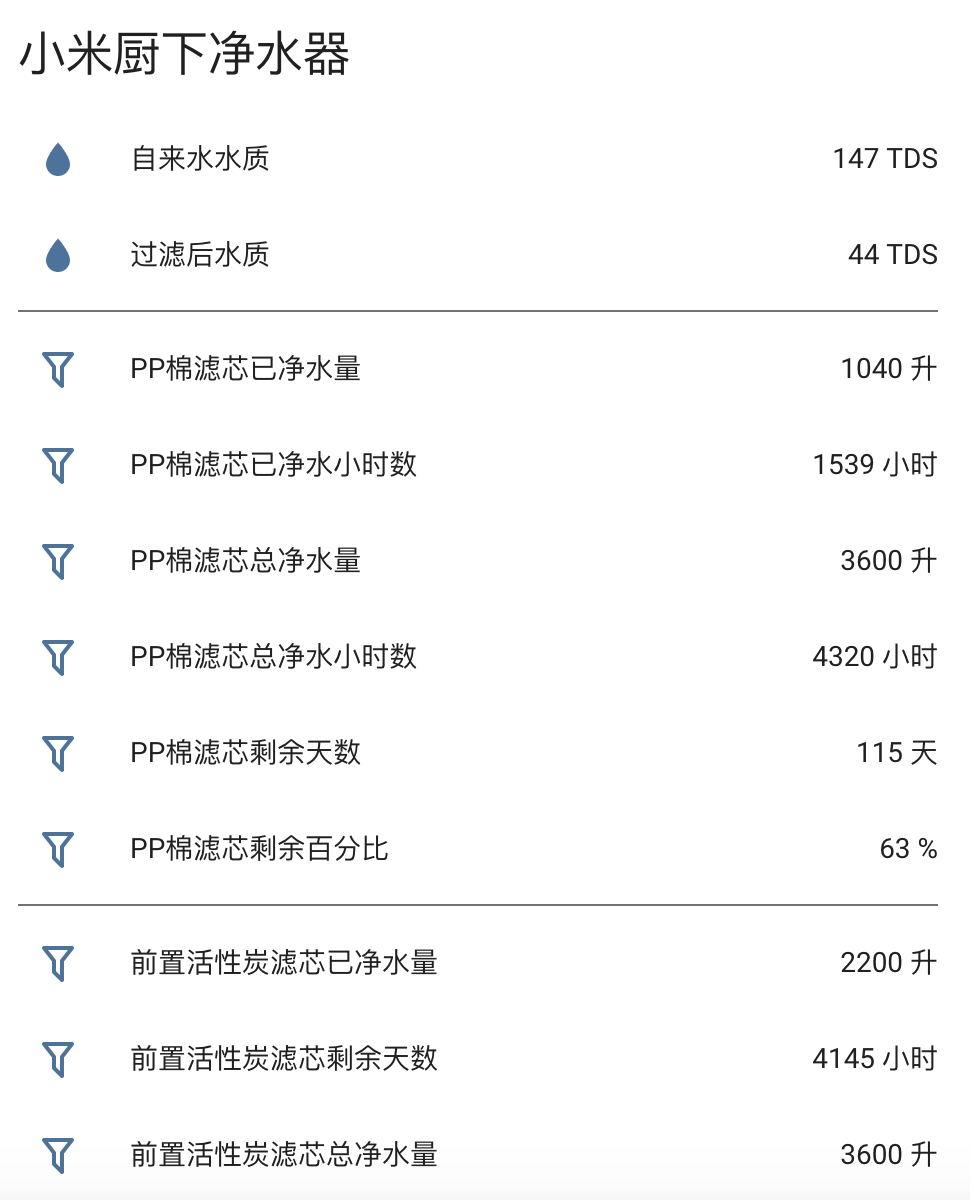
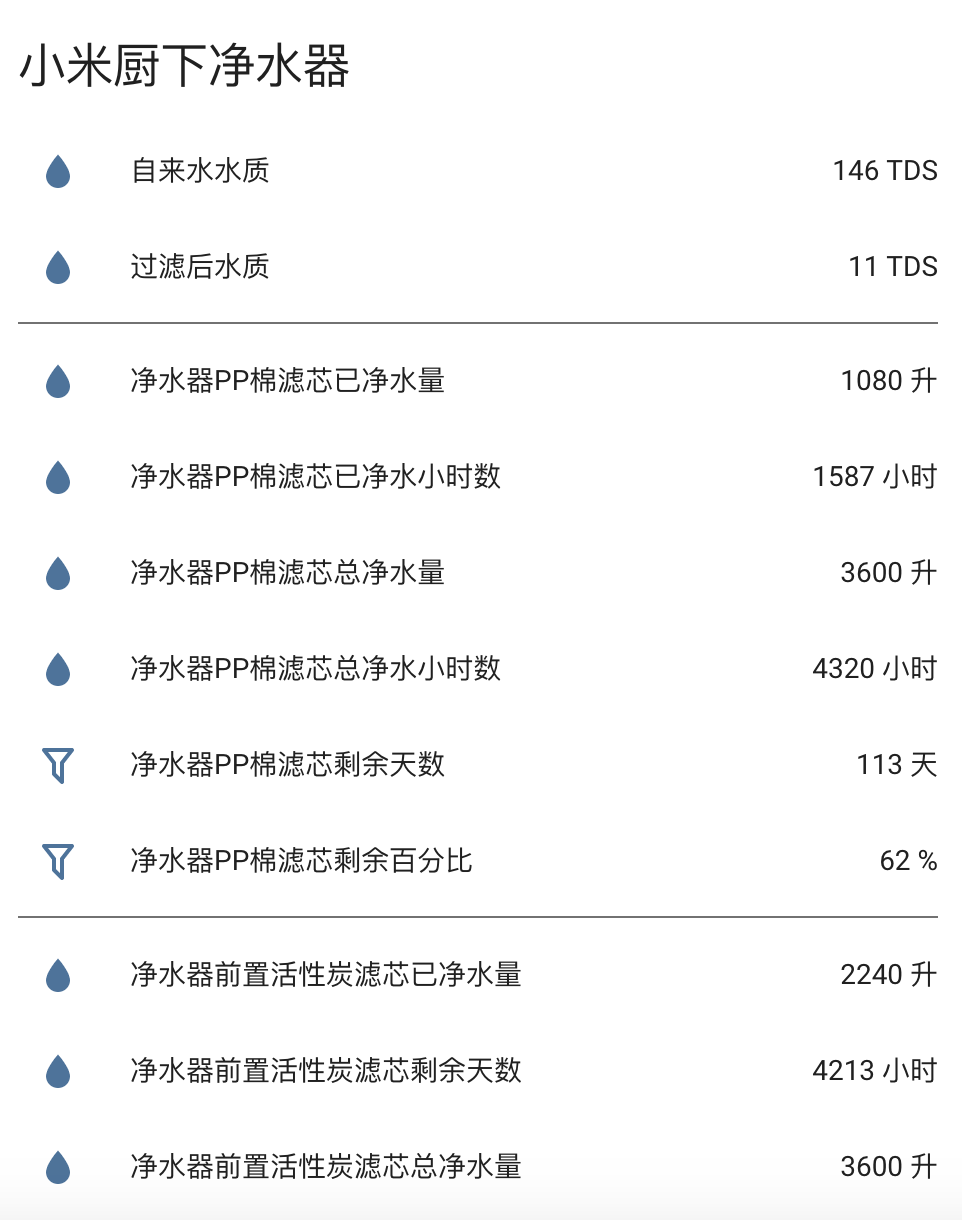
调整目录，增加个性化配置

diff --git a/mi_kitchen_water_purifier/custom_components/mi_kitchen_water_purifier/sensor.py b/mi_kitchen_water_purifier/custom_components/mi_kitchen_water_purifier/sensor.py
@@ -128,11 +128,17 @@ class MiKitchenWaterPurifierSensor(Entity):
     @property
     def icon(self):
         """返回传感器对应图标"""
-        if self._data_key['key'] is TAP_WATER_QUALITY['key'] or \
-            self._data_key['key'] is FILTERED_WATER_QUALITY['key']:
-            return 'mdi:water'
-        else:
+        if self._data_key['key'] is PP_COTTON_FILTER_REMAINING_DAYS['key'] or \
+            self._data_key['key'] is FRONT_ACTIVE_CARBON_FILTER_REMAINING_DAYS['key'] or \
+            self._data_key['key'] is RO_FILTER_REMAINING_DAYS['key'] or \
+            self._data_key['key'] is REAR_ACTIVE_CARBON_FILTER_REMAINING_DAYS['key'] or \
+            self._data_key['key'] is PP_COTTON_FILTER_REMAINING_PERCENT['key'] or \
+            self._data_key['key'] is FRONT_ACTIVE_CARBON_FILTER_REMAINING_PERCENT['key'] or \
+            self._data_key['key'] is RO_FILTER_REMAINING_PERCENT['key'] or \
+            self._data_key['key'] is REAR_ACTIVE_CARBON_FILTER_REMAINING_PERCENT['key']:
             return 'mdi:filter-outline'
+        else:
+            return 'mdi:water'
 
     @property
     def state(self):

diff --git a/mi_kitchen_water_purifier/README.md b/mi_kitchen_water_purifier/README.md
@@ -4,23 +4,15 @@
 
 ## 安装
 
-1. 将本目录 [mi_kitchen_water_purifier] 所有文件复制到 [custom_components] 下
-2. 获取小米厨下净水器 IP 及 Token
-
-## 配置
-
-```yaml
-sensor:
-  - platform: mi_kitchen_water_purifier
-    host: 你获取的IP
-    token: 你获取的Token
-    name: 你自定义的名称
-```
+1. 将目录 [custom_components] 下的 [mi_kitchen_water_purifier] 文件夹及文件夹下所有文件复制到你的 [custom_components] 下
+2. 将目录 [packages] 下的 ```mi_kitchen_water_purifier.yaml``` 文件复制到你的 [packages] 下
+3. 获取小米厨下净水器 IP 及 Token 并修改 ```mi_kitchen_water_purifier.yaml``` 文件
+4. 修改 ```你的customize.yaml``` 文件，增加 ```customize.yaml``` 中的内容
+5. 重启 HA 服务
 
 ## 参考
 
 基于看到现在使用量最大的小米净水器组件 [https://github.com/bit3725/homeassistant-mi-water-purifier](https://github.com/bit3725/homeassistant-mi-water-purifier) 修改，调整如下
 
-- 去除了 Group，因为都是 Sensor，感觉额外封一个 Group 作为对象意义不大
 - 将滤芯剩余天数与剩余百分比拆分为2个 Sensor
 - 每种滤芯增加了新的属性：已净水量、已净水小时数、总净水量、总净水小时数
